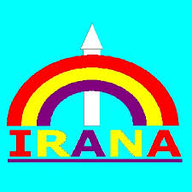
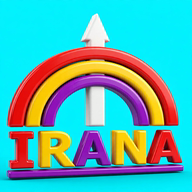
نشان تازهی ایرانا و عنوان با قلم نوین
Claude-Session: https://claude.ai/code/session_01MPm83MeQtSs7ALBzgAh96U

diff --git a/site/irana.css b/site/irana.css
@@ -1,5 +1,5 @@
 /* Irana visual identity — shared by the claude.ai page and the web app.
-   Layout: night-lapis ground with a faint gold girih lattice; Nastaliq masthead; gold-ruled single column of reports. */
+   Layout: night-lapis ground with a faint gold girih lattice; modern Vazirmatn masthead; gold-ruled single column of reports. */
 :root {
   --night: #0a1530;
   --lapis: #12245a;
@@ -11,7 +11,7 @@
   --turq: #46b8ae;
   --live: #e2483d;
   --line: rgba(224, 180, 82, .28);
-  --font-crown: "Noto Nastaliq Urdu", "Vazirmatn", serif;
+  --font-crown: "Vazirmatn", Tahoma, sans-serif;
   --font-roman: "Cinzel", "Times New Roman", serif;
   --font-body: "Vazirmatn", Tahoma, "Segoe UI", sans-serif;
   color-scheme: dark;
@@ -33,10 +33,10 @@ a:focus-visible, button:focus-visible { outline: 2px solid var(--gold); outline-
 
 /* Masthead */
 header.crown { padding-block: 40px 8px; display: grid; justify-items: center; gap: 6px; text-align: center; }
-.crown .seal { width: 92px; height: 92px; border-radius: 50%; object-fit: cover;
-  box-shadow: 0 0 0 3px var(--night), 0 0 0 5px var(--gold), 0 10px 40px rgba(224,180,82,.25); }
-.crown h1 { margin: 10px 0 0; font-family: var(--font-crown); font-weight: 700; font-size: clamp(2.4rem, 9vw, 4.2rem);
-  line-height: 2.1; color: var(--gold);
+.crown .seal { width: 132px; height: 132px; border-radius: 28px; object-fit: cover;
+  box-shadow: 0 0 0 3px var(--night), 0 0 0 5px var(--gold), 0 14px 50px rgba(0,229,238,.22), 0 10px 40px rgba(224,180,82,.2); }
+.crown h1 { margin: 14px 0 0; font-family: var(--font-crown); font-weight: 900; font-size: clamp(2.6rem, 10vw, 4.6rem);
+  line-height: 1.35; letter-spacing: -.01em; color: var(--gold);
   background: linear-gradient(180deg, #f7dc93 0%, var(--gold) 45%, var(--gold-deep) 100%);
   -webkit-background-clip: text; background-clip: text; -webkit-text-fill-color: transparent;
   text-shadow: 0 2px 24px rgba(224,180,82,.18); }

diff --git a/site/index.html b/site/index.html
@@ -17,7 +17,7 @@
 <meta property="og:image" content="icon-512.png">
 <link rel="preconnect" href="https://fonts.googleapis.com">
 <link rel="preconnect" href="https://fonts.gstatic.com" crossorigin>
-<link rel="stylesheet" href="https://fonts.googleapis.com/css2?family=Noto+Nastaliq+Urdu:wght@700&family=Cinzel:wght@600&family=Vazirmatn:wght@400;700;800&display=swap">
+<link rel="stylesheet" href="https://fonts.googleapis.com/css2?family=Cinzel:wght@600&family=Vazirmatn:wght@400;700;800;900&display=swap">
 <link rel="stylesheet" href="irana.css">
 <style>
   body { padding-top: env(safe-area-inset-top, 0px); padding-bottom: calc(56px + env(safe-area-inset-bottom, 0px)); }
@@ -42,7 +42,7 @@
 <body>
 <div class="wrap">
   <header class="crown">
-    <img class="seal" src="logo.jpg" alt="نشان ایرانا" width="92" height="92">
+    <img class="seal" src="logo.jpg" alt="نشان ایرانا" width="132" height="132">
     <h1>رسانه ایرانا</h1>
     <span class="roman" lang="en">IRANAMEDIA</span>
     <div class="ornament"><svg viewBox="0 0 24 24" aria-hidden="true"><path d="M12 1l3 8 8 3-8 3-3 8-3-8-8-3 8-3z"/></svg></div>

diff --git a/site/sw.js b/site/sw.js
@@ -1,5 +1,5 @@
 // Irana service worker: the app shell works offline; news and audio always come fresh from the network.
-const SHELL = 'irana-shell-v2';
+const SHELL = 'irana-shell-v3';
 const FILES = ['./', 'index.html', 'irana.css', 'app.js', 'logo.jpg', 'icon-192.png', 'manifest.webmanifest'];
 self.addEventListener('install', e => { e.waitUntil(caches.open(SHELL).then(c => c.addAll(FILES))); self.skipWaiting(); });
 self.addEventListener('activate', e => {
